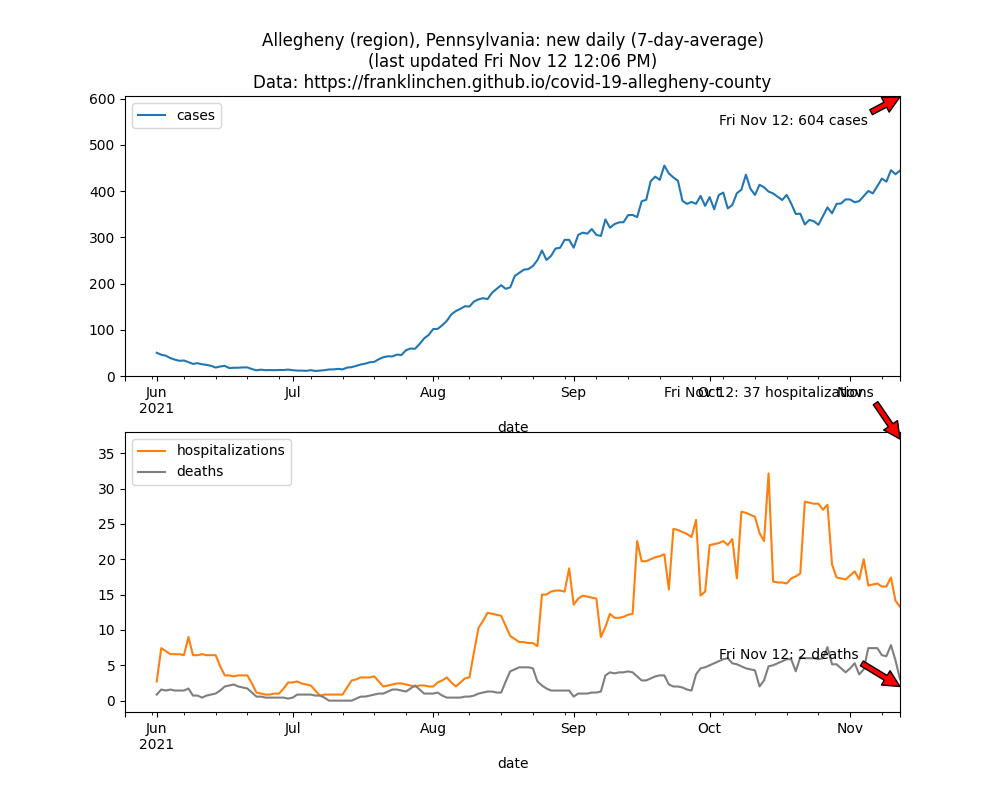
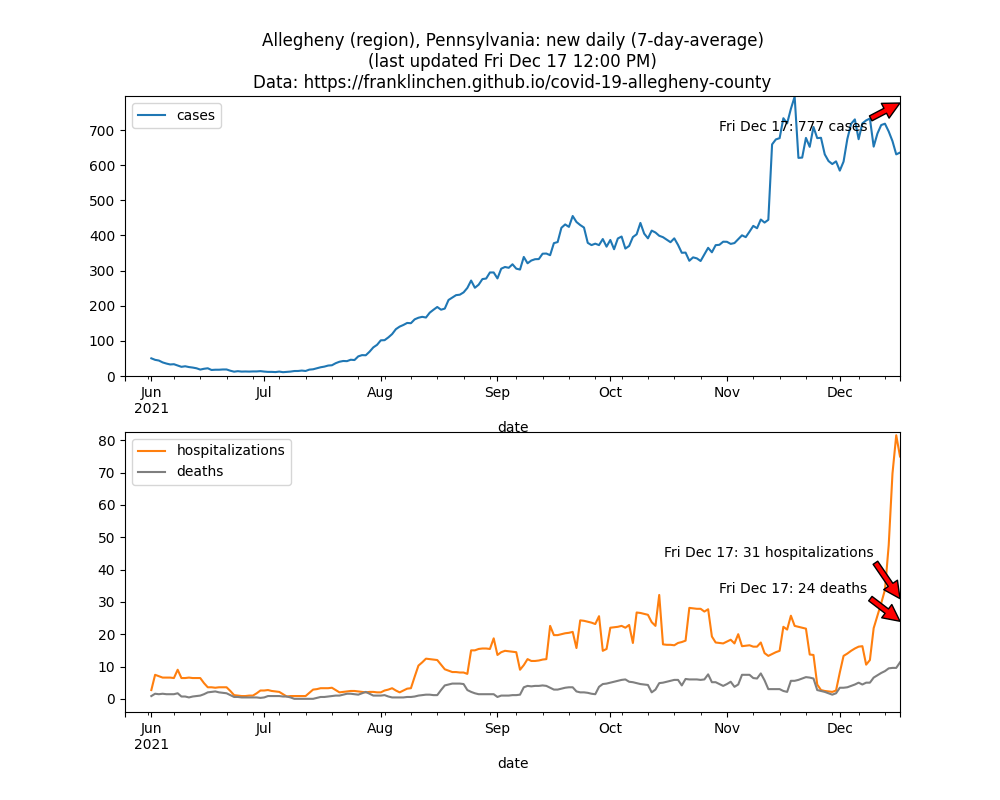
Note data dumps.

diff --git a/index.html b/index.html
@@ -12,11 +12,12 @@
         </header>
 
         <aside>
-            Last updated: Fri Nov 12, 12:07 PM
+            Last updated: Fri Dec 17, 12:01 PM
         </aside>
 
         <section>
             <h2 style="color: #ff6700">Important announcements</h2>
+            <p>Friday, November 19, 2021: FDA and CDC approved boosters for <a href="https://www.cnet.com/news/cdc-panel-recommends-covid-boosters-for-all-adults/">all adults</a>.
             <p>Tuesday, November 2, 2021: the CDC recommends <strong>everyone ages 5 and older get a COVID-19 vaccine</strong>. See <a href="https://www.cdc.gov/coronavirus/2019-ncov/vaccines/recommendations/children-teens.html">details on which vaccines are available</a>.
             <p>Thursday, October 22, 2021: the CDC expands eligibility for COVID-19 booster shots: Pfizer-BioNTech, Moderna, Johnson &amp; Johnson. Check the list of <a href="https://www.cdc.gov/media/releases/2021/p1021-covid-booster.html">who is eligible</a>.
             <p>Friday, September 24, 2021: the FDA and CDC authorize booster dose of Pfizer vaccine to certain adults who were fully vaccinated by Pfizer at least six months ago. Please check the <a href="https://www.cdc.gov/media/releases/2021/p0924-booster-recommendations-.html">official CDC statement</a> for eligibility criteria.
@@ -58,12 +59,21 @@
                 </ul>
             </nav>
             <figure id="recentdailyaveraged">
+                <figcaption>
+                    Note: there was a <a href="https://triblive.com/news/pennsylvania/pennsylvania-to-begin-counting-covid-re-infections/">reinfection</a> case data correction (1,302 previously uncounted reinfections) on November 13, 2021.
+                </figcaption>
                 <img src="recentdailyaveraged.png" alt="Allegheny County: new daily (7-day-average) since June 1, 2021"/>
             </figure>
             <figure id="dailyaveraged">
+                <figcaption>
+                    Note: there was a case data dumps on April 14, 2021 and a correction on November 13, 2021 (1,302 previously uncounted reinfections).
+                </figcaption>
                 <img src="dailyaveraged.png" alt="Allegheny County: new daily (7-day-average)"/>
             </figure>
             <figure id="total">
+                <figcaption>
+                    Note: there was a case data dumps on April 14, 2021 and a correction on November 13, 2021 (1,302 previously uncounted reinfections).
+                </figcaption>
                 <img src="total.png" alt="Allegheny County: total"/>
             </figure>
         </section>
